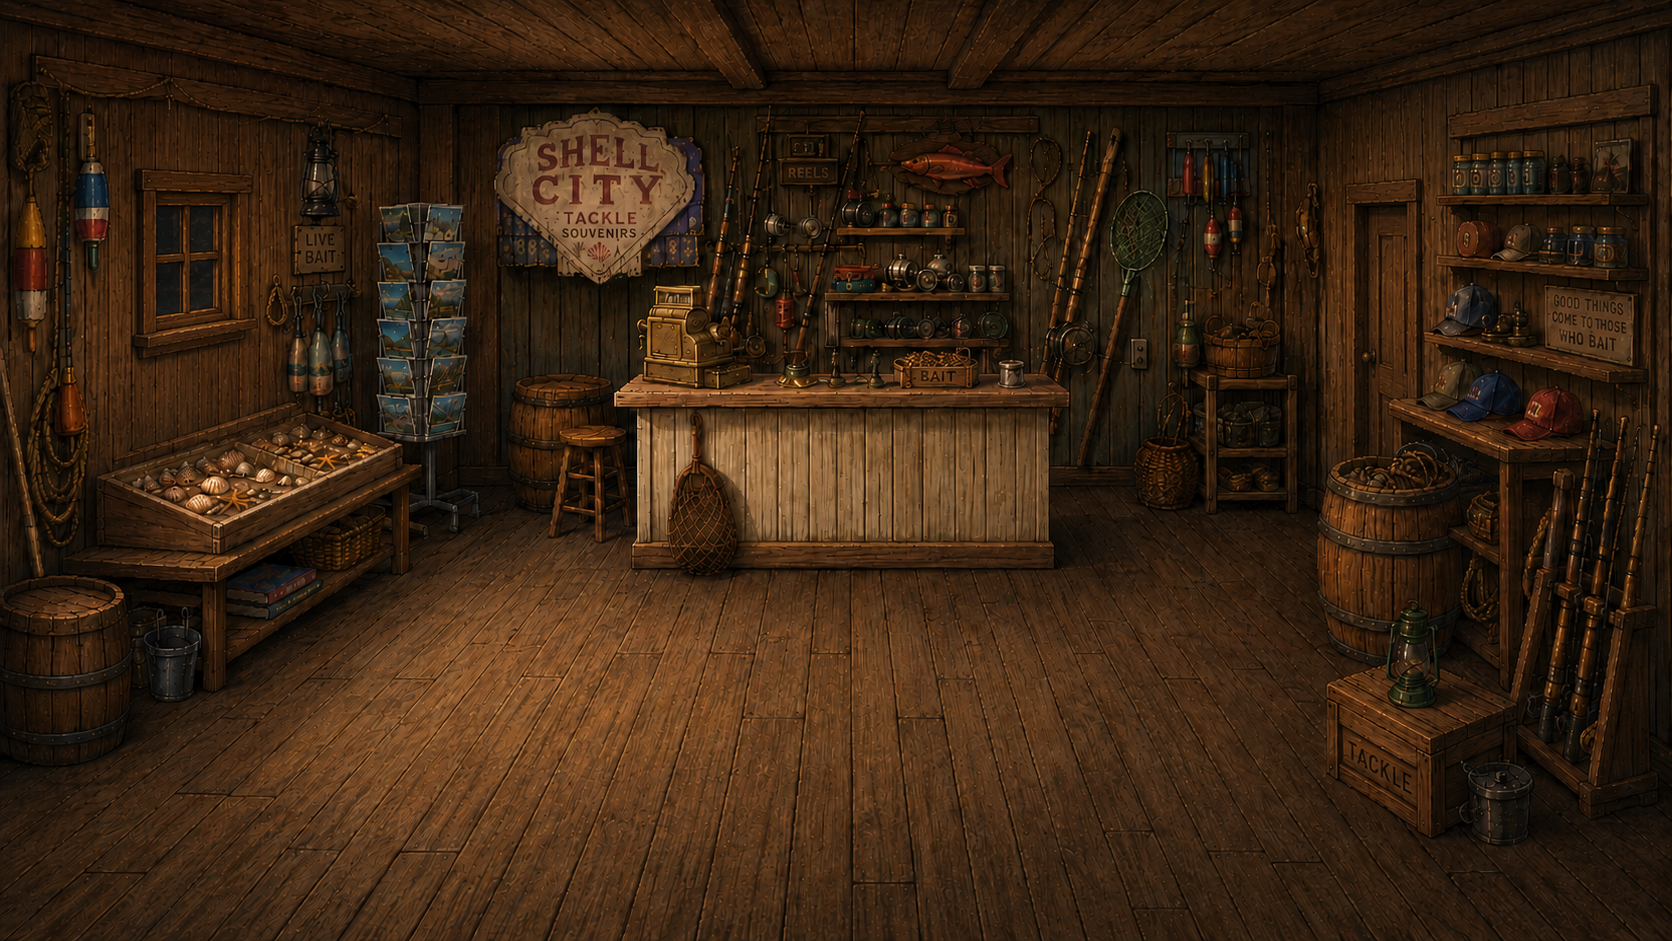
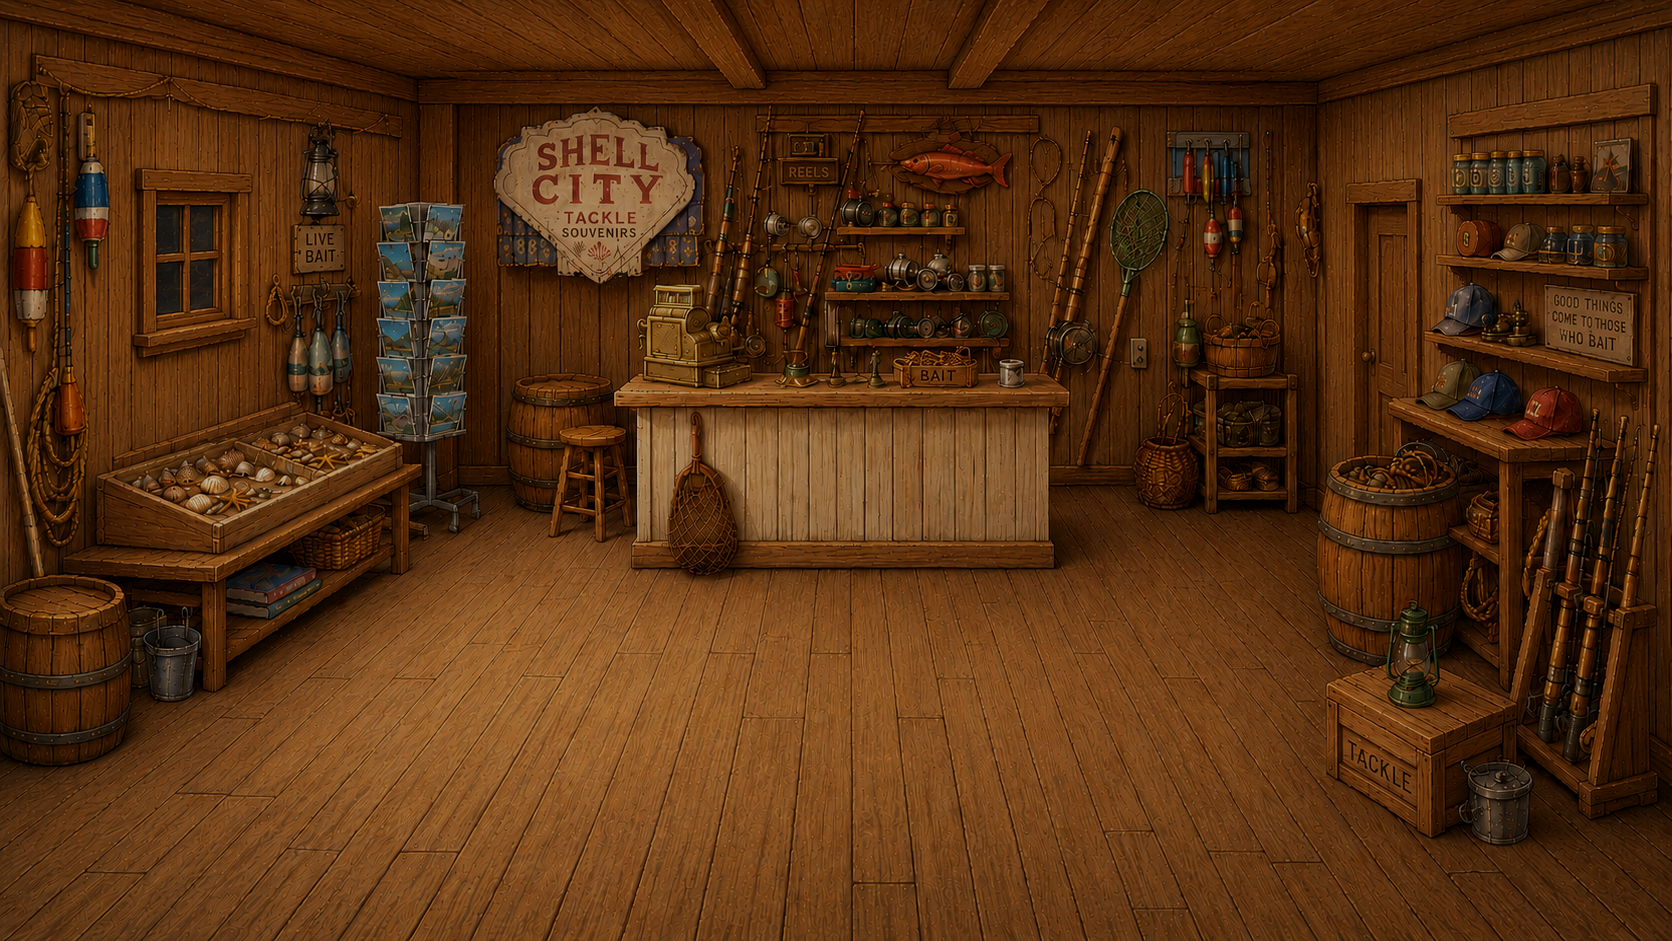
fixes: QA detected issues.

diff --git a/src/cartridges/rocco/rocco-default-cartridge.test.ts b/src/cartridges/rocco/rocco-default-cartridge.test.ts
@@ -325,6 +325,25 @@ function setPlayerSpritePosition(state: EngineMockState, groundX: number, sprite
   rocco.transform.y = spriteY;
 }
 
+function completeLatestPlayerGoTo(state: EngineMockState): void {
+  const latestGoTo = state.goToSprites.findLast((entry) =>
+    entry.startsWith(`${DEFAULT_SPRITE_INSTANCE_ID}:`),
+  );
+  if (!latestGoTo) {
+    throw new Error('Expected Rocco goTo movement to exist.');
+  }
+
+  const [, coordinates] = latestGoTo.split(':');
+  const [groundXText] = coordinates.split(',');
+  const rocco = findLatestSpriteSnapshot(state, DEFAULT_SPRITE_INSTANCE_ID);
+  if (!rocco) {
+    throw new Error('Expected Rocco sprite to exist.');
+  }
+
+  setPlayerSpritePosition(state, Number(groundXText), rocco.transform.y);
+  state.isSpriteMovingValue = false;
+}
+
 async function flushAsyncTransition(): Promise<void> {
   await new Promise((resolve) => setTimeout(resolve, 0));
   await new Promise((resolve) => setTimeout(resolve, 0));
@@ -2134,13 +2153,17 @@ describe('RoccoDefaultCartridge', () => {
         ),
       );
 
+      expect(state.playedSoundIds).not.toContain(BAIT_SHOP_DOOR_OPENING_SOUND_ID);
+      completeLatestPlayerGoTo(state);
+      manager.update(16);
+
       expect(state.playedSoundIds).toContain(BAIT_SHOP_DOOR_OPENING_SOUND_ID);
       expect(listPlayedSpriteAnimationsFor(state, DEFAULT_BAIT_SHOP_DOOR_SPRITE_INSTANCE_ID)).toContain(
         `${DEFAULT_BAIT_SHOP_DOOR_SPRITE_INSTANCE_ID}:${DEFAULT_BAIT_SHOP_DOOR_OPEN_ANIMATION_ID}`,
       );
 
       expect(state.playedSpriteActionDirections).toContain(
-        `${DEFAULT_SPRITE_INSTANCE_ID}:${DEFAULT_SPRITE_IDLE_ACTION_ID}:left`,
+        `${DEFAULT_SPRITE_INSTANCE_ID}:${DEFAULT_SPRITE_IDLE_ACTION_ID}:up`,
       );
 
       manager.update(999);
@@ -2151,6 +2174,7 @@ describe('RoccoDefaultCartridge', () => {
         `rocco-bait-shop-placeholder-title:${localization.text.levels.baitShopPlaceholderTitle}`,
       );
 
+      completeLatestPlayerGoTo(state);
       manager.update(1);
       await flushAsyncTransition();
 
@@ -2179,7 +2203,7 @@ describe('RoccoDefaultCartridge', () => {
     }
   });
 
-  it('calls the police instead of opening the bait shop door when Stan is awake', async () => {
+  it('calls the police after Rocco reaches the bait shop door while Stan is awake', async () => {
     const localization = createRoccoLocalization('es');
     const state = makeEngineState();
     const engine = createEngineMock(state);
@@ -2208,6 +2232,14 @@ describe('RoccoDefaultCartridge', () => {
 
     expect(state.playedSoundIds).not.toContain(BAIT_SHOP_DOOR_OPENING_SOUND_ID);
     expect(listPlayedSpriteAnimationsFor(state, DEFAULT_BAIT_SHOP_DOOR_SPRITE_INSTANCE_ID)).not.toContain(
+      `${DEFAULT_BAIT_SHOP_DOOR_SPRITE_INSTANCE_ID}:${DEFAULT_BAIT_SHOP_DOOR_OPEN_ANIMATION_ID}`,
+    );
+
+    completeLatestPlayerGoTo(state);
+    manager.update(16);
+
+    expect(state.playedSoundIds).toContain(BAIT_SHOP_DOOR_OPENING_SOUND_ID);
+    expect(listPlayedSpriteAnimationsFor(state, DEFAULT_BAIT_SHOP_DOOR_SPRITE_INSTANCE_ID)).toContain(
       `${DEFAULT_BAIT_SHOP_DOOR_SPRITE_INSTANCE_ID}:${DEFAULT_BAIT_SHOP_DOOR_OPEN_ANIMATION_ID}`,
     );
     expect(state.spriteMessages).toContain(
